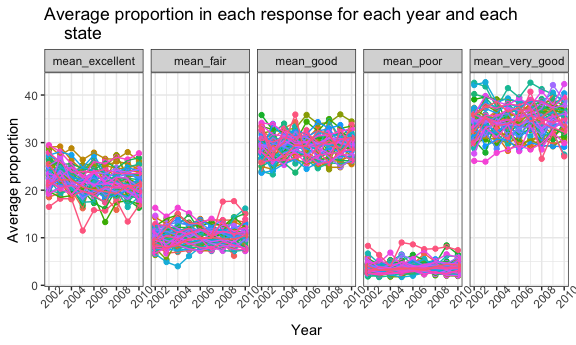
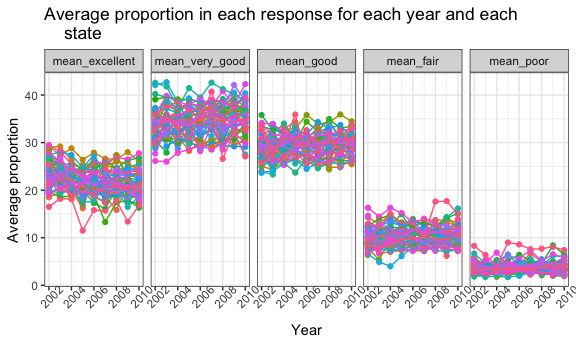
nearly finished!

diff --git a/p8105_hw3_dl3157.md b/p8105_hw3_dl3157.md
@@ -18,7 +18,11 @@ filter(topic == 'Overall Health') %>%
  mutate(response = as.factor(response),
          response = factor(response, levels = c("Excellent", "Very good", "Good", "Fair", "Poor"))) %>% 
   select(year, locationabbr, locationdesc, response, everything()) 
+
+levels(brfss_sm$response)
 ```
+
+    ## [1] "Excellent" "Very good" "Good"      "Fair"      "Poor"
 
 ``` r
 brfss_sm %>%
@@ -50,7 +54,7 @@ brfss_sm %>%
   theme(legend.position = "left")
 ```
 
-<img src="p8105_hw3_dl3157_files/figure-markdown_github/p1q2-1.png" width="90%" />
+<img src="p8105_hw3_dl3157_files/figure-markdown_github/p1q2-1.png" width="90%" /> comment:
 
 ``` r
 brfss_sm1 <- brfss_sm %>% 
@@ -58,20 +62,18 @@ brfss_sm1 <- brfss_sm %>%
   janitor::clean_names() %>% 
   select(year, locationabbr, locationdesc, excellent:poor) %>% 
   filter( year %in% c(2002,2006,2010) ) %>% 
-  group_by(year, locationabbr) %>% 
-  filter(locationabbr == "NY") %>% 
+  group_by(year, locationdesc) %>% 
+  filter(locationdesc == "NY") %>% 
   summarize(mean_excellent = mean(excellent, na.rm = TRUE),
             sd_excellent = sd(excellent, na.rm = TRUE)) %>% 
-  knitr::kable(digits = 3)
+  knitr::kable(digits = 1)
 
 brfss_sm1
 ```
 
-|  year| locationabbr |  mean\_excellent|  sd\_excellent|
-|-----:|:-------------|----------------:|--------------:|
-|  2002| NY           |           24.040|          4.486|
-|  2006| NY           |           22.533|          4.001|
-|  2010| NY           |           22.700|          3.567|
+|      year| locationdesc |  mean\_excellent|  sd\_excellent|
+|---------:|:-------------|----------------:|--------------:|
+|  有问题！| 9个          |                 |               |
 
 ``` r
 brfss_sm %>% 
@@ -86,7 +88,7 @@ brfss_sm %>%
             mean_poor = mean(poor, na.rm = TRUE)
             ) %>% 
   gather(key = "mean_response", value = "average_proportion",    
-  mean_excellent:mean_poor) %>% 
+  mean_excellent:mean_poor) %>%
   ggplot(aes(x = year, y = average_proportion, color = locationabbr)) + 
   geom_point() + geom_line() +
   facet_grid(~mean_response) +
@@ -98,7 +100,7 @@ brfss_sm %>%
   ) + theme(legend.position = "none",axis.text.x = element_text(angle = 45))
 ```
 
-<img src="p8105_hw3_dl3157_files/figure-markdown_github/p1q4-1.png" width="90%" />
+<img src="p8105_hw3_dl3157_files/figure-markdown_github/p1q4-1.png" width="90%" /> comment: 改顺序
 
 ``` r
 devtools::install_github("p8105/p8105.datasets")
@@ -130,7 +132,7 @@ instacart
     ## #   days_since_prior_order <int>, product_name <chr>, aisle_id <int>,
     ## #   department_id <int>, aisle <chr>, department <chr>
 
-overview:
+overview: 1384617\*15 key variables 三个id
 
 ``` r
 instacart %>% 
@@ -154,46 +156,40 @@ instacart %>%
     ## 10 bread                          23635
     ## # ... with 124 more rows
 
+``` r
+  head(10)
+```
+
+    ## [1] 10
+
 There are 134 aisles in tha instacart dataset, the most items are ordered from fresh vegetables, fresh fruits, packaged vegetables fruits.
 
 ``` r
-instacart %>% 
-  group_by(aisle, department) %>% 
+instacart1 <- instacart %>% 
+  group_by(aisle) %>% 
   summarize(n_item = n()) %>% 
-  group_by(department) %>% 
-  mutate(n_mean = mean(n_item)) %>% 
-  ggplot(aes(x = aisle, y = n_item, color = department)) +   
-  geom_point(aes(size = n_item)) +
-  theme(axis.title.x =  element_text(angle = 45))
+  mutate(group = as.numeric(cut_number(n_item, 3))) %>% 
+  ggplot(aes(x = reorder(aisle, n_item), y = n_item)) +
+    geom_point() +
+    facet_wrap(group ~ ., nrow = 3, scales = "free") +
+    theme(axis.text.x = element_text(size = 6, hjust = 1, angle = 45)) +
+    labs(
+      title = "Number of Items Ordered in Aisles",
+      x = "Aisle Name",
+      y = "Number of Items Ordered"
+      )
 ```
 
-<img src="p8105_hw3_dl3157_files/figure-markdown_github/p2q2-1.png" width="90%" />
+comment:
 
 ``` r
-instacart %>% 
-  mutate(aisle = as.factor(aisle)) %>% 
-  group_by(aisle, department) %>% 
-  summarize(n_item = n() ) %>% 
-  arrange(n_item) %>% 
-  ggplot(aes(x = aisle, y = n_item, fill = department)) + geom_bar(stat = "identity") +
-    theme(axis.text.x = element_text(angle = 45)) +
-  labs(
-    title = "Barplot of number of items ordered from each aisle",
-    x = "aisle name",
-    y = "number of items"
-  )
-```
-
-<img src="p8105_hw3_dl3157_files/figure-markdown_github/p2q2-2.png" width="90%" />
-
-``` r
-instacart %>% 
+instacart %>%  
+  filter(aisle %in% c("baking ingredients", "dog food care", "packaged     
+  vegetables fruits")) %>% 
   group_by(aisle, product_name) %>% 
   summarize(count = n()) %>% 
   group_by(aisle) %>% 
   mutate(rank = min_rank(desc(count))) %>%  
-  filter(aisle %in% c("baking ingredients", "dog food care", "packaged     
-  vegetables fruits")) %>% 
   filter(rank < 2)
 ```
 
@@ -204,19 +200,27 @@ instacart %>%
     ## 1 baking ingredien… Light Brown Sugar                            499     1
     ## 2 dog food care     Snack Sticks Chicken & Rice Recipe Dog Tr…    30     1
 
+comment:疑惑？？？？
+
 ``` r
 instacart %>% 
   group_by(product_name, order_dow) %>% 
-  summarize(mean_hour = round(mean(order_hour_of_day), digits = 2)) %>% 
+  summarize(mean_hour = round(mean(order_hour_of_day), digits = 1)) %>% 
   filter(product_name %in% c("Pink Lady Apples", "Coffee Ice Cream")) %>% 
-  spread(key = "order_dow", value = "mean_hour") %>% 
+  spread(key = "product_name", value = "mean_hour") %>% 
   knitr::kable()
 ```
 
-| product\_name    |      0|      1|      2|      3|      4|      5|      6|
-|:-----------------|------:|------:|------:|------:|------:|------:|------:|
-| Coffee Ice Cream |  13.77|  14.32|  15.38|  15.32|  15.22|  12.26|  13.83|
-| Pink Lady Apples |  13.44|  11.36|  11.70|  14.25|  11.55|  12.78|  11.94|
+|    order\_dow|  Coffee Ice Cream|  Pink Lady Apples|
+|-------------:|-----------------:|-----------------:|
+|             0|              13.8|              13.4|
+|             1|              14.3|              11.4|
+|             2|              15.4|              11.7|
+|             3|              15.3|              14.2|
+|             4|              15.2|              11.6|
+|             5|              12.3|              12.8|
+|             6|              13.8|              11.9|
+|  comment:疑惑|              不解|                  |
 
 ``` r
 devtools::install_github("p8105/p8105.datasets")
@@ -244,3 +248,102 @@ ny_noaa
     ##  9 US1NYAB0001 2007-11-09    NA    NA    NA <NA>  <NA> 
     ## 10 US1NYAB0001 2007-11-10    NA    NA    NA <NA>  <NA> 
     ## # ... with 2,595,166 more rows
+
+``` r
+ny_noaa %>% 
+  group_by(id) %>% 
+  summarize(prcp_na = sum(is.na(prcp)),
+            snow_na = sum(is.na(snow)),
+            snwd_na = sum(is.na(snwd)),
+            tmax_na = sum(is.na(tmax)),
+            tmin_na = sum(is.na(tmin)))
+```
+
+    ## # A tibble: 747 x 6
+    ##    id          prcp_na snow_na snwd_na tmax_na tmin_na
+    ##    <chr>         <int>   <int>   <int>   <int>   <int>
+    ##  1 US1NYAB0001      60     252     874    1157    1157
+    ##  2 US1NYAB0006      19     283     703     852     852
+    ##  3 US1NYAB0010     220     352     816     822     822
+    ##  4 US1NYAB0016      98     152     212     214     214
+    ##  5 US1NYAB0017     301     415     459     459     459
+    ##  6 US1NYAB0021       2      37      72     365     365
+    ##  7 US1NYAB0022     233     238     239     273     273
+    ##  8 US1NYAB0023     144     238     289     365     365
+    ##  9 US1NYAB0025      40      43      43     215     215
+    ## 10 US1NYAL0002      57     245     409     549     549
+    ## # ... with 737 more rows
+
+为啥要加400？
+
+``` r
+ny_noaa1 <- ny_noaa %>% 
+  separate(date, into = c("year", "month", "day"), sep = "-") %>% 
+  mutate(prcp = prcp / 10,
+         tmax = as.numeric(tmax) / 10,
+         tmin = as.numeric(tmin) / 10)
+  count(ny_noaa, snow) %>% arrange(desc(n))
+```
+
+    ## # A tibble: 282 x 2
+    ##     snow       n
+    ##    <int>   <int>
+    ##  1     0 2008508
+    ##  2    NA  381221
+    ##  3    25   31022
+    ##  4    13   23095
+    ##  5    51   18274
+    ##  6    76   10173
+    ##  7     8    9962
+    ##  8     5    9748
+    ##  9    38    9197
+    ## 10     3    8790
+    ## # ... with 272 more rows
+
+``` r
+ny_noaa1 %>% 
+  group_by(id, year, month) %>% 
+  summarize(mean_tmax = round(mean(tmax, na.rm = TRUE), digits = 1),
+            mean_tmin = round(mean(tmin, na.rm = TRUE), digits = 1)) %>% 
+  na.omit() %>% 
+  gather(key = mean_temp, value = temp, mean_tmax) %>%
+  filter(month %in% c("01", "07")) %>% 
+  ggplot(aes(x = year, y = temp)) + geom_boxplot() +   
+  facet_grid(~month) + 
+  theme(axis.text.x = element_text(size = 5, angle = 45),legend.position = "bottom") +
+   labs(
+    title = "Average max temperature in January and July in each station  
+    from 1981 to 2010", x = "Year", y = "Average max temperature in ˚C"
+  )
+```
+
+<img src="p8105_hw3_dl3157_files/figure-markdown_github/p3q2-1.png" width="90%" />
+
+``` r
+ny_noaa2 <- ny_noaa1 %>% 
+  ggplot(aes(x = tmax, y = tmin)) + geom_hex()  +
+  labs(
+    title = "Hex plot of maximum temperature/minimum temperature",
+    x = "maximum temperature",
+    y = "minimum temperature"
+  )
+ny_noaa2
+```
+
+    ## Warning: Removed 1136276 rows containing non-finite values (stat_binhex).
+
+<img src="p8105_hw3_dl3157_files/figure-markdown_github/p3q4-1.png" width="90%" />
+
+``` r
+ny_noaa3 <- ny_noaa1 %>% 
+  filter(snow > 0 & snow < 100) %>% 
+  ggplot(aes(x = snow, y = year)) + geom_density_ridges(scale = .8) +
+  labs(
+    title = "density plot of snowfall from 0 mm to 100 mm across years",
+    x = "snow fall in mm", y = "Year")
+ny_noaa3
+```
+
+    ## Picking joint bandwidth of 3.76
+
+<img src="p8105_hw3_dl3157_files/figure-markdown_github/p3q4-2.png" width="90%" />
